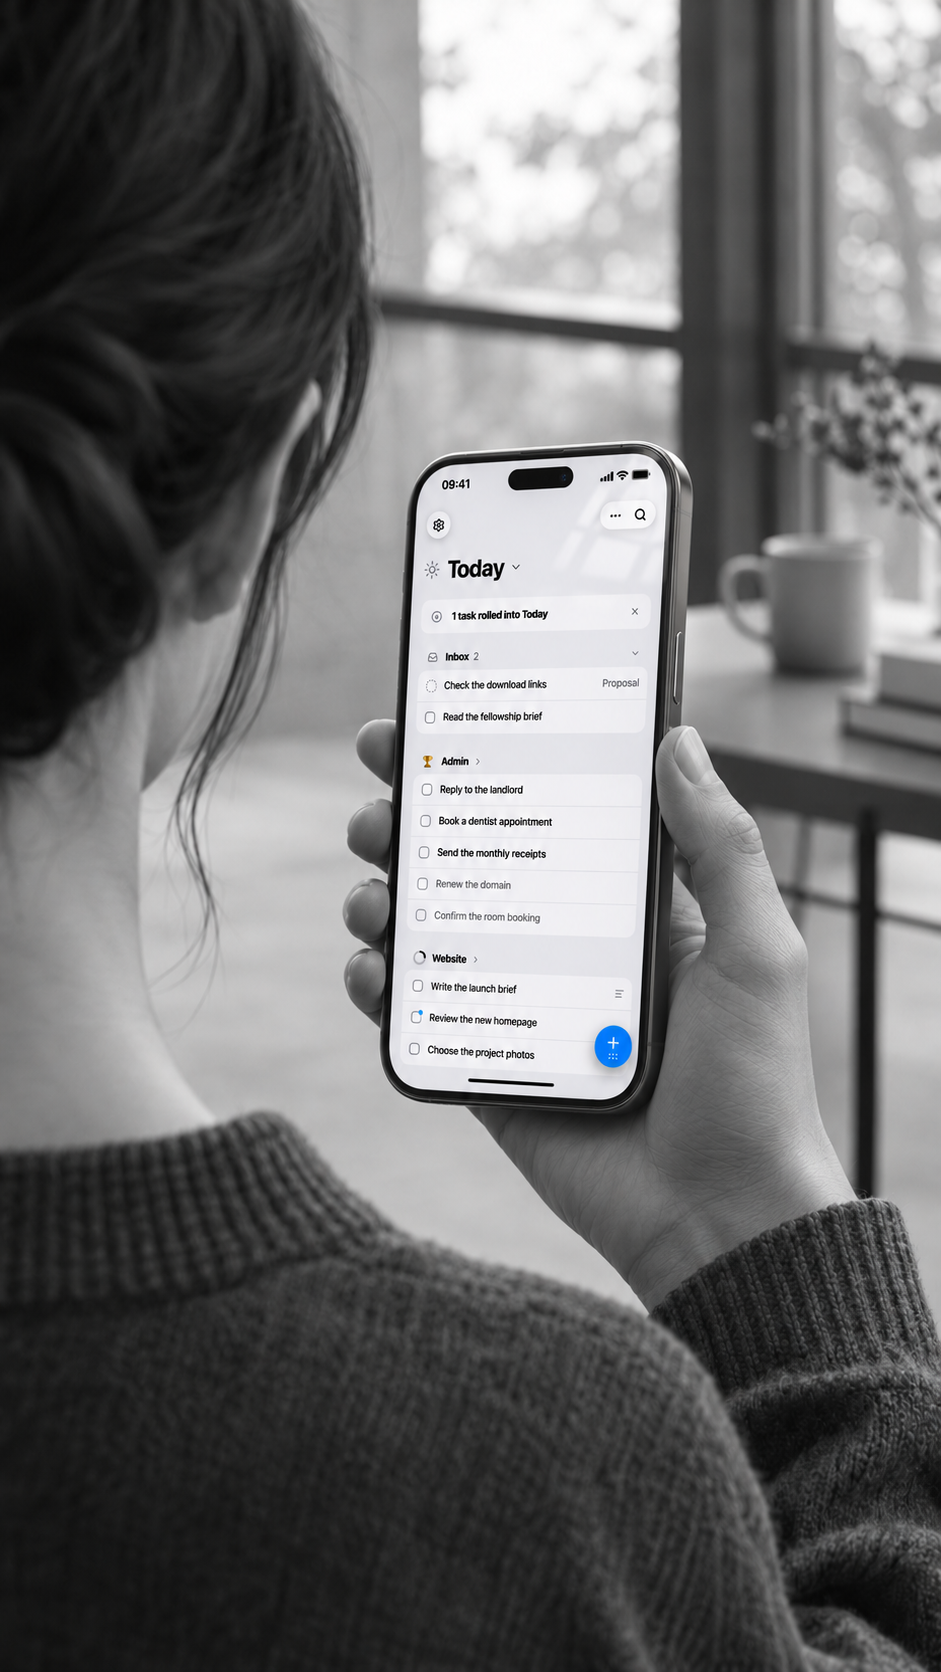
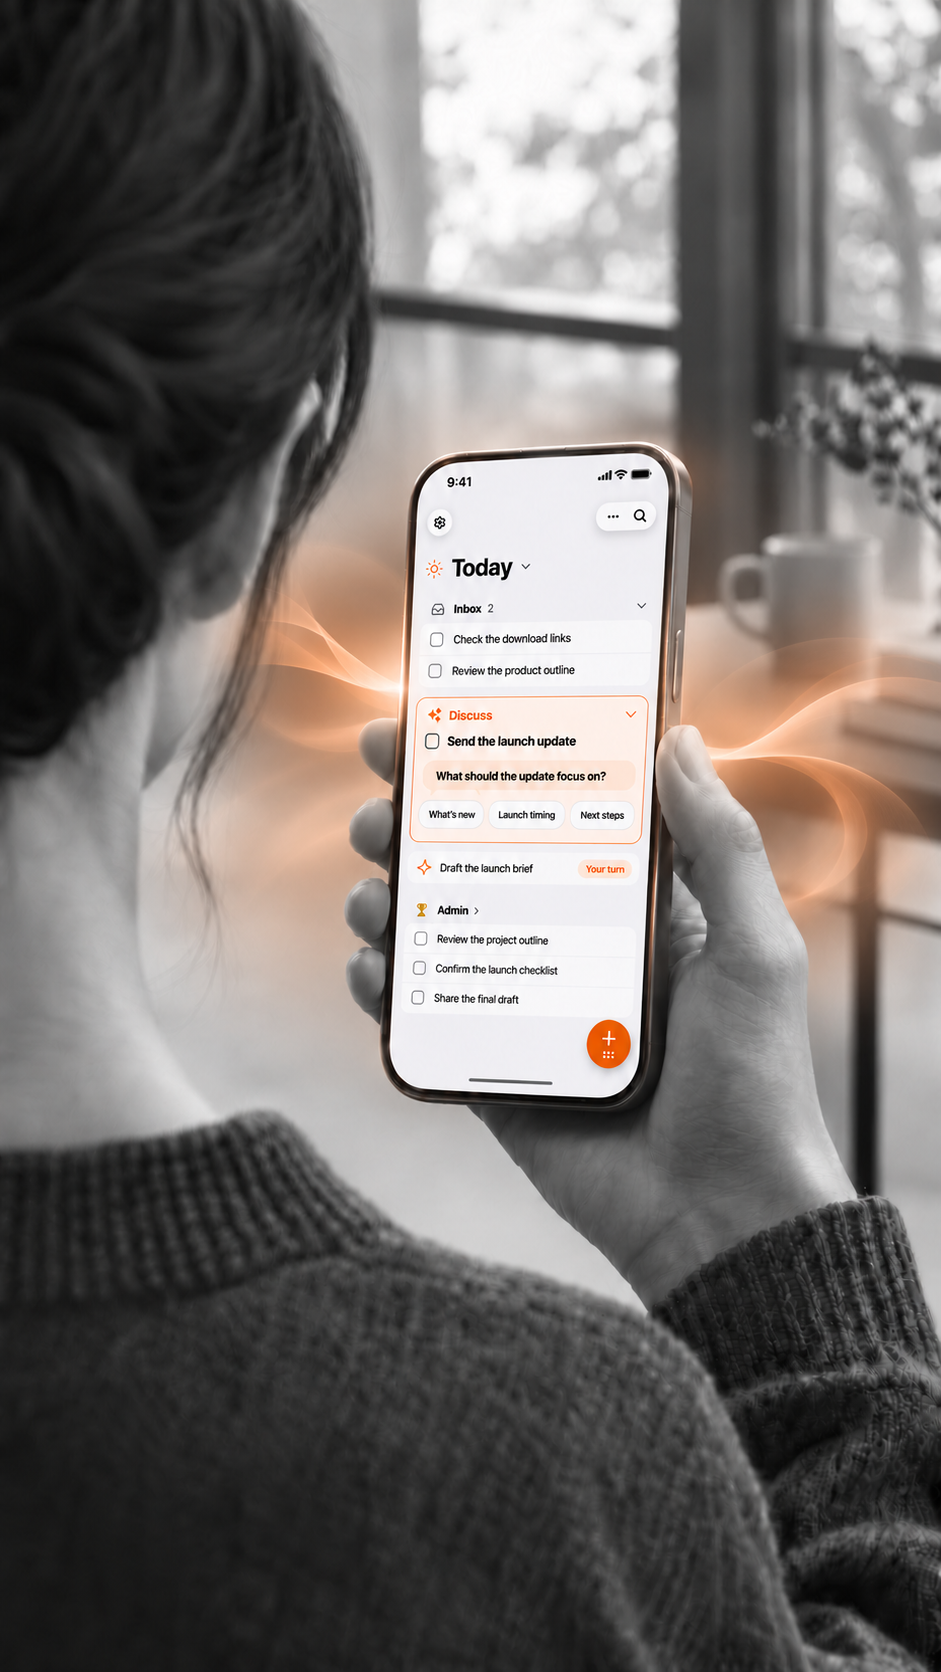
feat(appstore): import and open panels, new photo, rings joined to their cards
- move-in: Anytime with the app's own "Move from another app" words
  (registry/settings.json); no other app named on the panel.
- open: the Privacy & Data page drawn from the settings registry.
- New card kind "section": a settings section's header and footer.
- A card that zooms in on a ringed element wears the ring's outline, and a
  dotted accent line joins them.
- Panel 1 uses the new photo.
- Promotional text leads with open source and moving in from your current app.
- 10 panels, the store maximum.

diff --git a/docs/APPSTORE-SEPTASK.md b/docs/APPSTORE-SEPTASK.md
@@ -54,7 +54,7 @@ Tasks that think with you
 
 ### promotional_text
 
-Tasks that think with you, on iPhone, iPad and Mac. Your agents do the work. You decide when it’s done. AI asks before it acts.
+Open source, on iPhone, iPad and Mac. Bring your tasks over from the app you use now, and let your agents do the work while you decide what’s done.
 
 ### description
 
@@ -134,7 +134,7 @@ Tasks that think with you
 
 ### promotional_text
 
-Tasks that think with you, built for the Mac. Your agents do the work. You decide when it’s done. Keyboard first, with Quick Entry from anywhere.
+Open source and built for the Mac. Bring your tasks over from the app you use now, and let your agents do the work while you decide what’s done.
 
 ### description
 
@@ -230,6 +230,8 @@ reads this table; `appstore/validate.mjs` checks it.
 | agent-work | agents/1 | - | Hand off the work. Your agent works from the task’s notes, and you can stop it anytime. | |
 | agent-result | review/0 | - | You decide when it’s done. Agent work waits in Review until you accept it. | |
 | lets-go | faded/0 | - | The list that lets go. Old tasks fade, and each week Septena asks if you still want them. | |
+| move-in | plan/0 | - | Bring your tasks with you. Import your areas, projects and tasks from your existing app. | |
+| open | privacy/0 | - | Yours, built in the open. Open source, and it works without an account. | |
 | looks | looks/2 | - | Make it yours. Pick an accent colour and a texture for your lists. | |
 | devices | today/0 | - | One list, every device. iPhone, iPad, Mac and Apple Watch. | |
 
